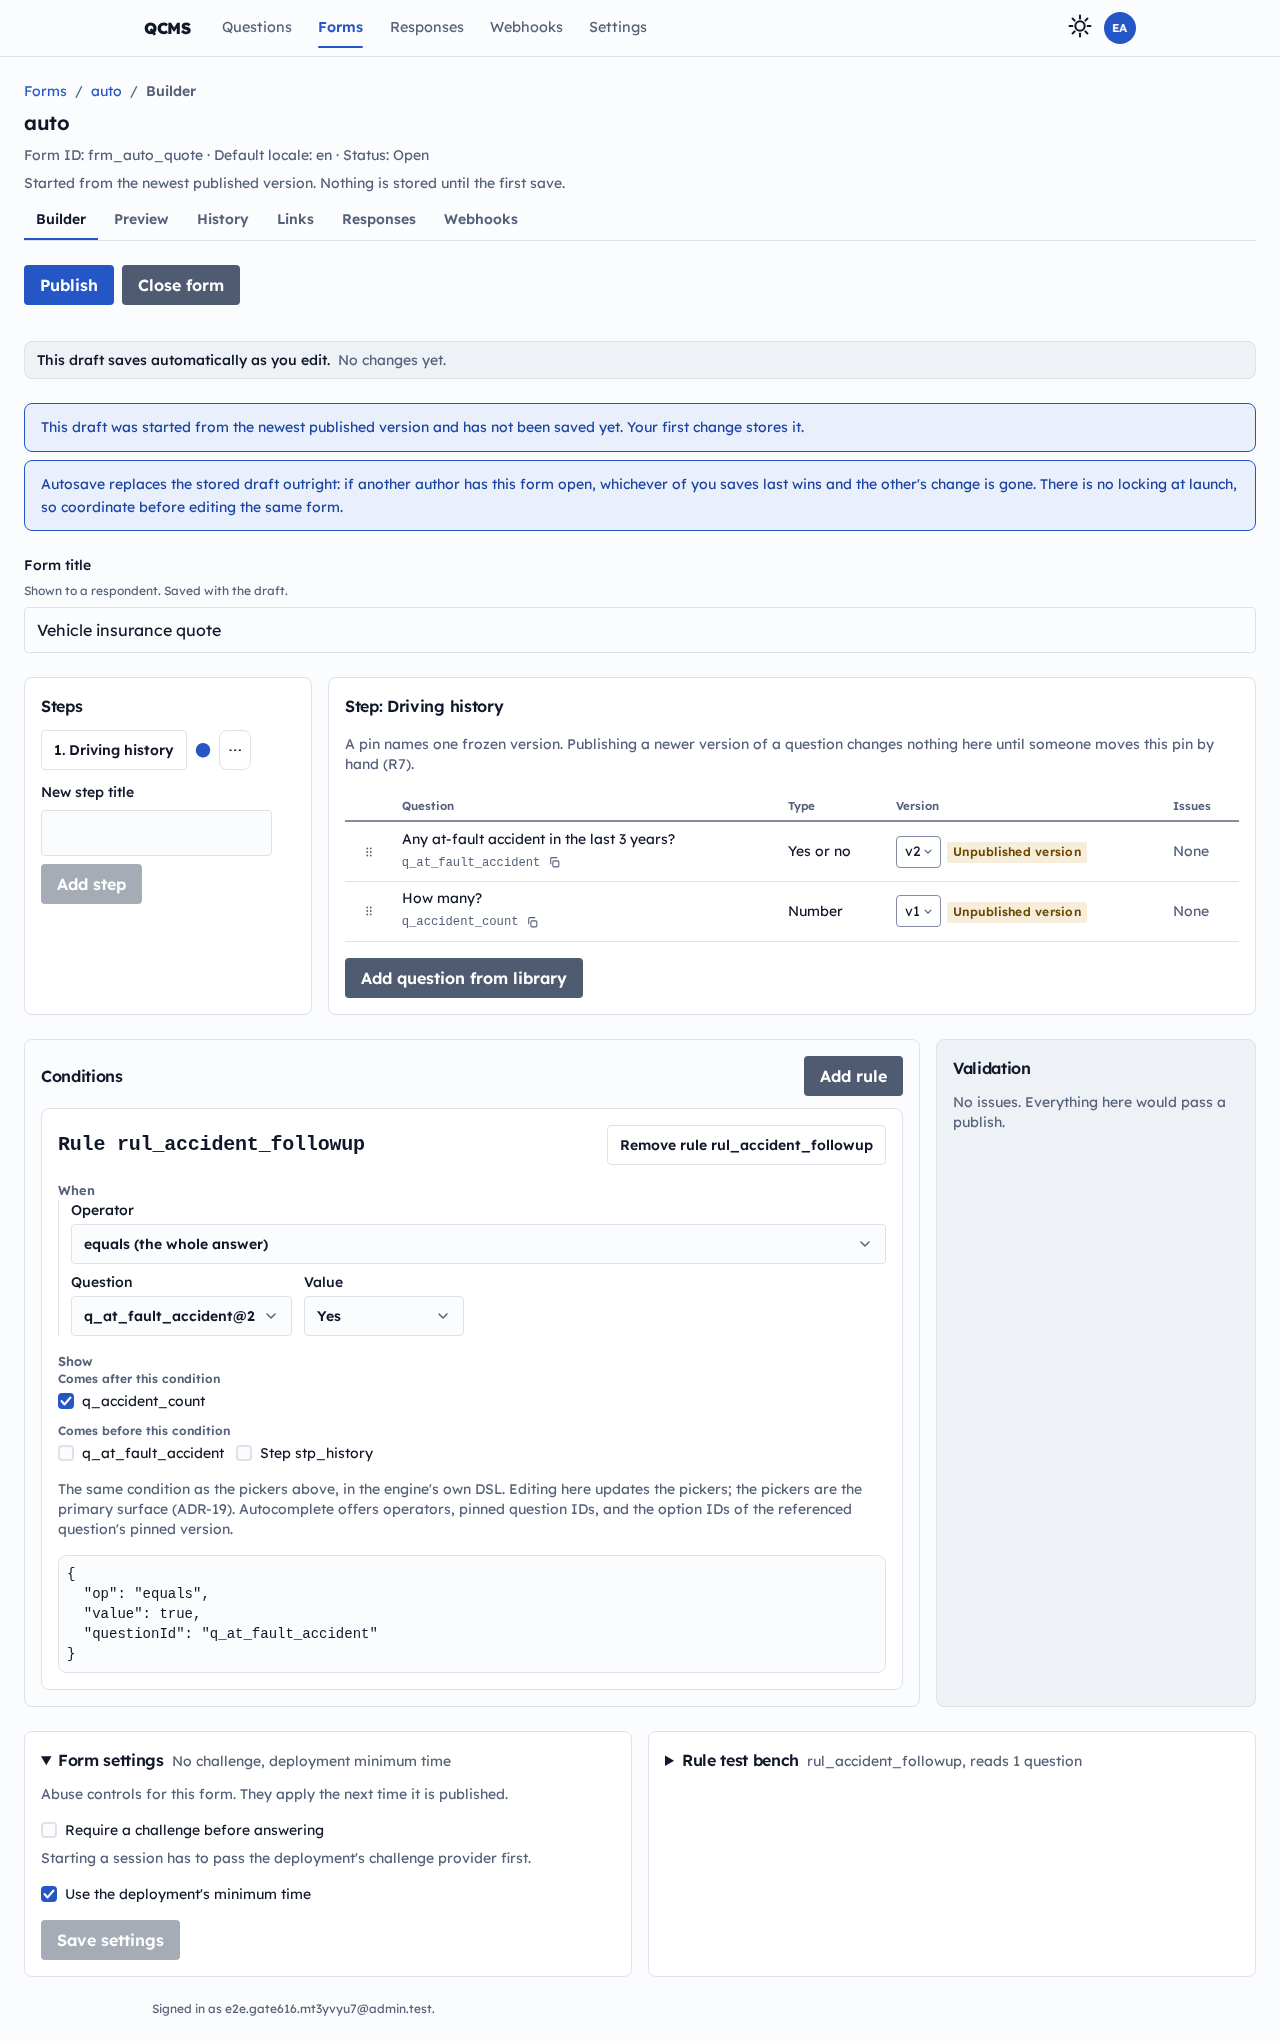
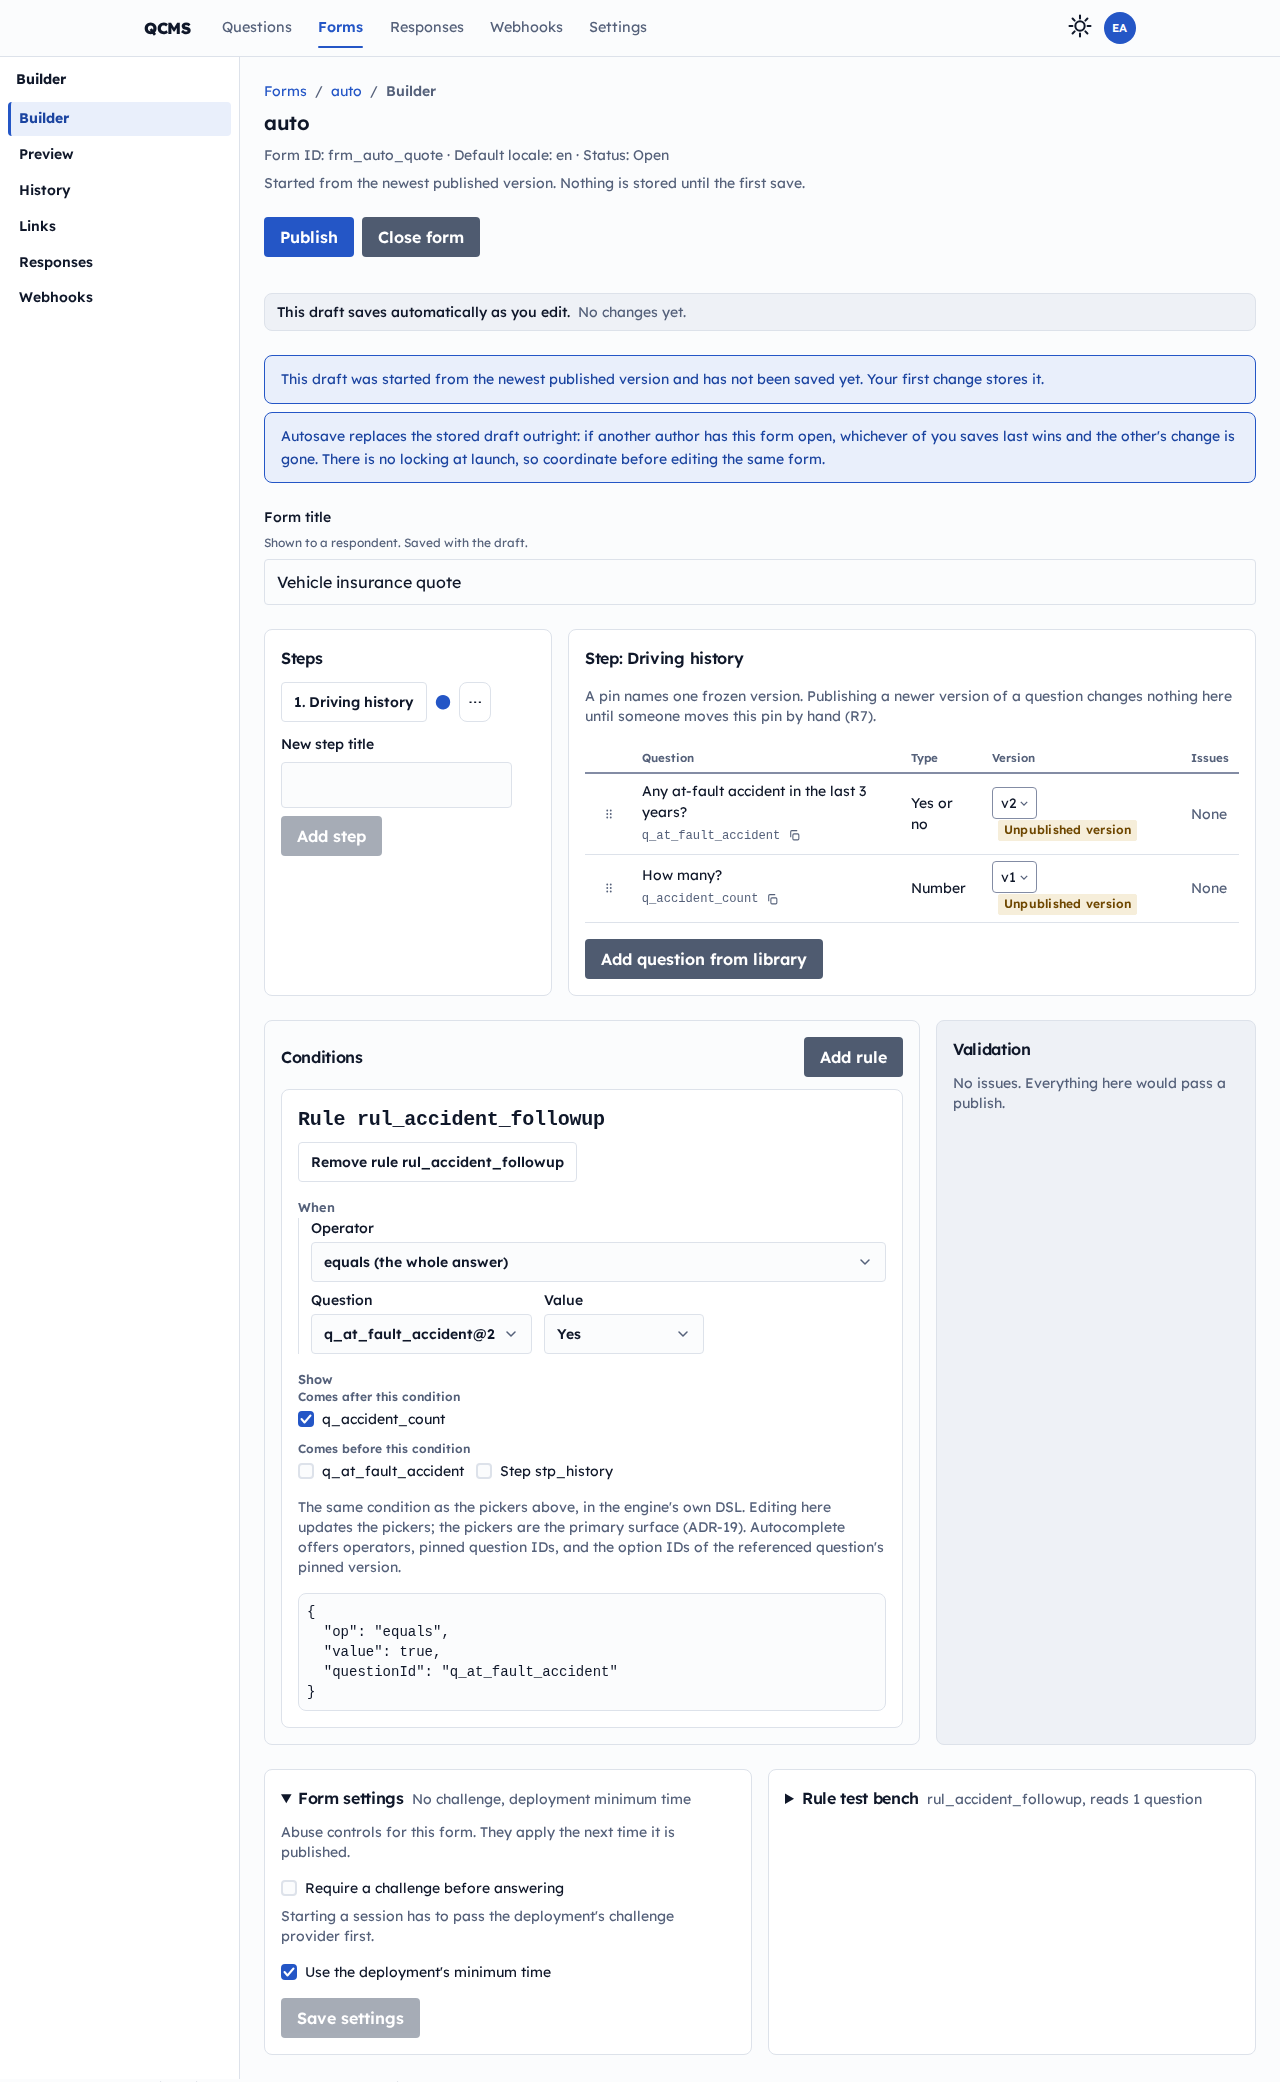
fix(admin): 616 retire the 561 one-pixel allowance and re-shoot the frames with the rail

diff --git a/apps/admin/e2e/gate-561.pw.ts b/apps/admin/e2e/gate-561.pw.ts
@@ -63,18 +63,6 @@ interface Frame {
   readonly path: string;
   readonly width: number;
   readonly height?: number;
-  /**
-   * Horizontal overflow this frame is knowingly allowed to carry, in CSS pixels.
-   *
-   * Zero everywhere but one frame. The builder scrolls sideways by exactly one pixel at
-   * 390, which is issue 616: a pre-existing defect on that screen, open, out of this
-   * issue's scope, and unrelated to the rail (the rail is a full-width stacked disclosure
-   * below `--bp-sidebar` and takes no horizontal room from the column). The allowance is
-   * spelled here rather than the check simply dropped, because the number is the finding
-   * and issue 616 exists precisely because it had been living in a gate transcript. If the
-   * builder is fixed, this frame overflows by nothing and the allowance should go.
-   */
-  readonly overflowAllowance?: number;
 }
 
 async function capture(page: Page, name: string, frame: Frame): Promise<void> {
@@ -89,11 +77,16 @@ async function capture(page: Page, name: string, frame: Frame): Promise<void> {
   // file wider than the width in its own name and misdescribes itself to a reviewer who
   // cannot measure a PNG in a GitHub diff. Soft, so one screen's overflow reports itself
   // without costing the rest of the set its evidence.
+  //
+  // The builder frame used to carry a one-pixel allowance here, spelled out with its
+  // reason: the builder scrolled sideways by a pixel at 390 and that was issue 616,
+  // open and out of this issue's scope. Issue 616 has since fixed it, so the allowance
+  // is gone and every frame in this set is held to its own viewport. A declared
+  // exemption that stops being needed is a defect of the test that declares it.
   const scrollWidth = await page.evaluate(() => document.documentElement.scrollWidth);
-  const ceiling = frame.width + (frame.overflowAllowance ?? 0);
   expect
-    .soft(scrollWidth, `the ${name} frame fits its ${String(ceiling)}px ceiling`)
-    .toBeLessThanOrEqual(ceiling);
+    .soft(scrollWidth, `the ${name} frame fits its ${String(frame.width)}px viewport`)
+    .toBeLessThanOrEqual(frame.width);
 
   await page.screenshot({ path: `${OUT_DIR}/${name}.png`, fullPage: true, caret: "initial" });
 }
@@ -109,11 +102,7 @@ test.beforeAll(async ({ browser }) => {
 
 /** §7 collapsed on the builder: one group, so the summary opens straight onto the sections. */
 test("builder-390", async ({ page }) => {
-  await capture(page, "builder-390", {
-    path: `/forms/${FORM_ID}`,
-    width: 390,
-    overflowAllowance: 1,
-  });
+  await capture(page, "builder-390", { path: `/forms/${FORM_ID}`, width: 390 });
 });
 
 /** §7 on the builder: the sibling group alone, no children, no divider, editor untouched. */
